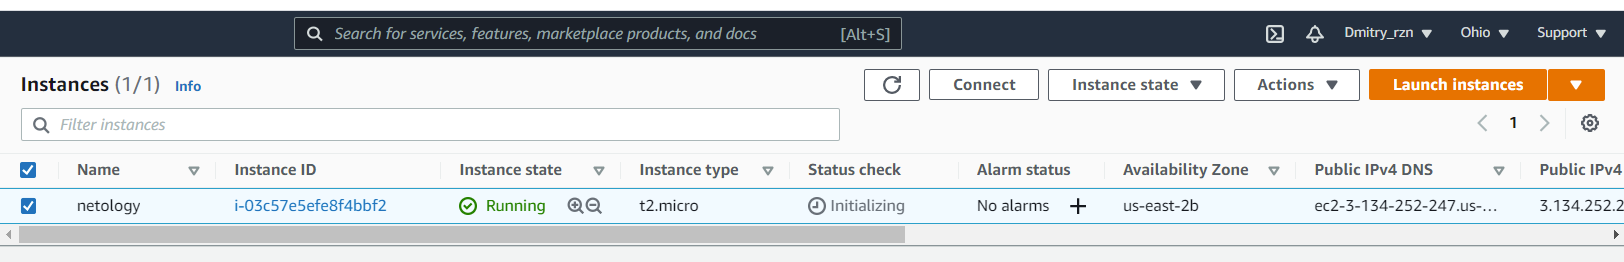
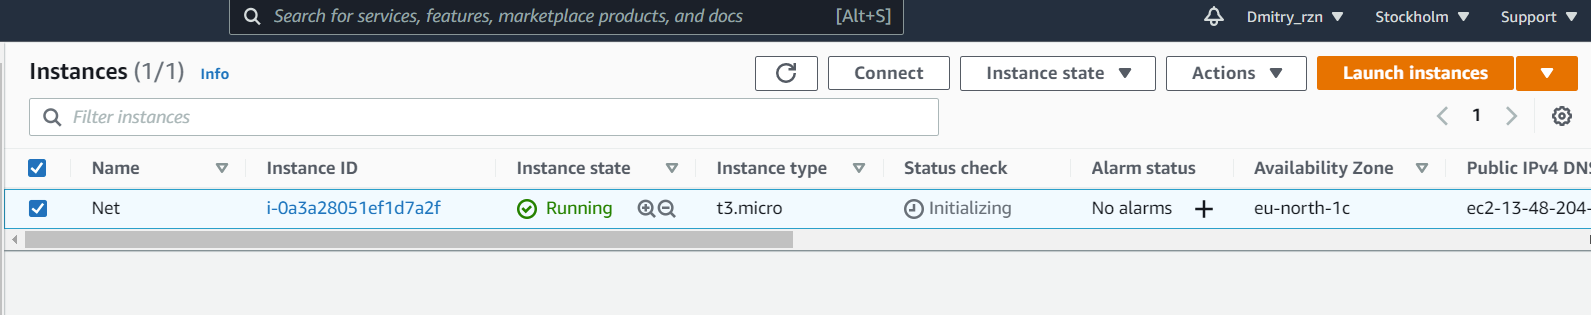
d

diff --git a/7.2/readme.md b/7.2/readme.md
@@ -8,7 +8,13 @@ PS C:\Users\Dimm> aws configure list
    profile                <not set>             None    None
 access_key     ****************Z4GT shared-credentials-file
 secret_key     ****************ccRM shared-credentials-file
-    region                   Global      config-file    ~/.aws/config
+    region                   eu-north-1c      config-file    ~/.aws/config
 
 ```
+
+Ответ на вопрос: при помощи какого инструмента (из разобранных на прошлом занятии) можно создать свой образ ami?  
+Можно использовать packer
+
+
+
 
